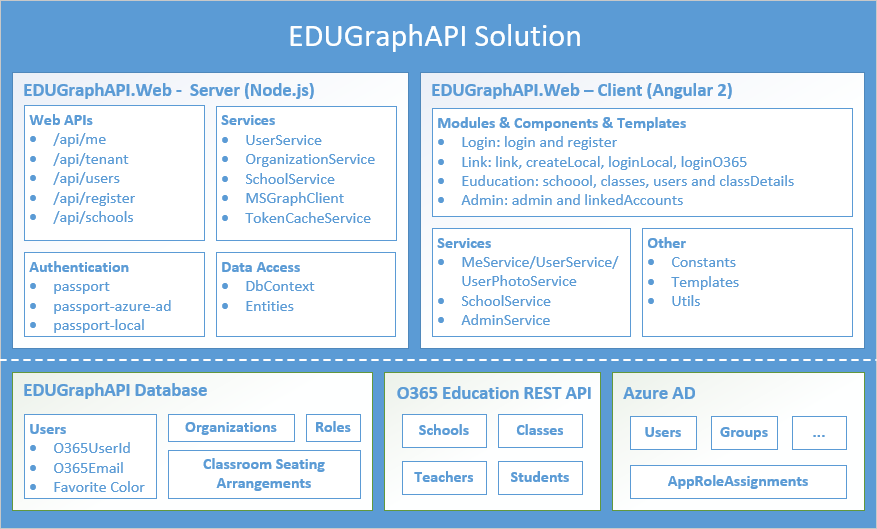
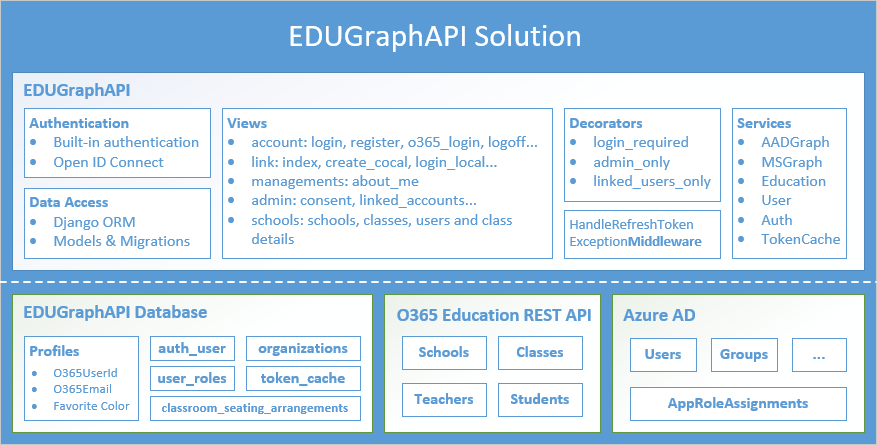
update readme

Changed region(s): [[0.0, 0.0292, 1.0, 0.9933]]

diff --git a/README.md b/README.md
@@ -252,11 +252,7 @@ Run the app:
 
 ![](Images/solution-component-diagram.png)
 
-
-
 ### **EDUGraphAPI**
-
-The server side app is based on Node.js and implemented with Typescript.
 
 **Authentication**
 
@@ -268,28 +264,28 @@ Local users authentication is based on the built-in API:
 * [login](https://docs.djangoproject.com/en/1.10/topics/auth/default/#django.contrib.auth.login)
 * [logout](https://docs.djangoproject.com/en/1.10/topics/auth/default/#django.contrib.auth.logout)
 
-O365 users authentication is implemented with Open ID Connect package: 
+O365 users authentication is implemented with Open ID Connect. 
 
 **Data Access**
 
 In this sample, [Django's built-in ORM](https://docs.djangoproject.com/en/1.11/topics/db/) is used to access data from the backend SQLite database.
 
-Below are are tables:
+Below are the tables:
 
 | Table                          | Description                              |
 | ------------------------------ | ---------------------------------------- |
 | auth_user                      | Django built-in user table which contains users' authentication information: username, email, password... |
-| users                          | Contains users' extra information: *favoriteColor*, *organization_id*,  *o365UserId*, and *o365Email*. The later two are used to connect the local user with an O365 user. |
 | user_roles                     | Contains users' roles. Three roles are used in this sample: admin, teacher, and student. |
+| profiles                       | Contains users' extra information: *favoriteColor*, *organization_id*,  *o365UserId*, and *o365Email*. The later two are used to connect the local user with an O365 user. |
 | organizations                  | A row in this table represents a tenant in AAD.<br>*isAdminConsented* column records if the tenant consented by an administrator. |
 | token_cache                    | Contains the users' access/refresh tokens. |
 | classroom_seating_arrangements | Contains the classroom seating arrangements data. |
 
-You will find the **DbContext** class and related model interfaces in the **/data/dbContext.ts** file.
+Models are defined in **/models/db.py**.
 
 **Views**
 
-The server app exposes several Web APIs:
+Below are the views:
 
 | Path                 | Description                              |
 | -------------------- | ---------------------------------------- |
@@ -297,31 +293,31 @@ The server app exposes several Web APIs:
 | /admin/views.py      | Contains administrative views like consent tenant, manage linked accounts. |
 | /link/views.py       | Contains views used for link user accounts. |
 | /management/views.py | Contains views of the about me page.     |
-| /schools/view        | Contains education views, like schools, classes, and class details. |
-
-These APIs are defined in the **/routes** folder.
+| /schools/view.py     | Contains education views, like schools, classes, and class details. |
 
 **Decorators**
 
-Several decorators were used for authorization:
+The below decorators were used in this app:
 
-| Decorator |      |
-| --------- | ---- |
-|           |      |
-|           |      |
-|           |      |
+| Decorator         | Description                              |
+| ----------------- | ---------------------------------------- |
+| login_required    | Only allow logged in users to access the protected resources. |
+| admin_only        | Only allow admins to access the protected resources. |
+| linked_users_only | Only allow linked users to access the protected resources. |
 
 **Services**
 
 The services used by the server side app:
 
-| Service           | Description                              |
-| ----------------- | ---------------------------------------- |
-| MSGraphClient     | Contains methods used to access MS Graph APIs |
-| SchoolService     | Contains two methods: get/update seating arrangements |
-| TenantService     | Contains methods that operate tenants in the database |
-| TokenCacheService | Contains method used to get and update cache from the database |
-| UserService       | Contains method used to manipulate users in the database |
+| Service          | Description                              |
+| ---------------- | ---------------------------------------- |
+| UserService      | Contains method used to manipulate users in the database. |
+| LinkService      | Contains method used to link user accounts. |
+| AuthService      | Contains methods used for authorization and authentication. |
+| AADGraphService  | Contains methods used to access AAD Graph APIs. |
+| MSGraphService   | Contains methods used to access MS Graph APIs. |
+| EducationService | Contains two methods to access Education REST APIs. |
+| TokenService     | Contains method used to get and update tokens from the database |
 
 The services are in the **/services** folder.
 
@@ -348,40 +344,38 @@ The **EducationServiceClient** is the core class of the library. It is used to e
 **Get schools**
 
 ~~~typescript
-getSchools(): Observable<any[]> {
-    return this.dataService.getArray<any>(this.urlBase + "/administrativeUnits?api-version=beta");
-}
+def get_schools(self):
+    url = self.api_base_uri + 'administrativeUnits?api-version=beta'
+    return self.rest_api_service.get_object_list(url, self.access_token, model=School)
 ~~~
 
 ~~~typescript
-getSchoolById(id: string): Observable<any> {
-    return this.dataService.getObject(this.urlBase + '/administrativeUnits/' + id + '?api-version=beta');
-}
+def get_school(self, object_id):
+    url = self.api_base_uri + 'administrativeUnits/%s?api-version=beta' % object_id
+    return self.rest_api_service.get_object(url, self.access_token, model=School)
 ~~~
 
 **Get classes**
 
 ~~~typescript
-getClasses(schoolId: string, nextLink: string): Observable<PagedCollection<any>> {
-    let url: string = this.urlBase + "/groups?api-version=beta&$top=12&$filter=extension_fe2174665583431c953114ff7268b7b3_Education_ObjectType%20eq%20'Section'%20and%20extension_fe2174665583431c953114ff7268b7b3_Education_SyncSource_SchoolId%20eq%20'" + schoolId + "'" +
-        (nextLink ? "&" + GraphHelper.getSkipToken(nextLink) : '');
-    return this.dataService.getPagedCollection<any>(url);
-}
+def get_sections(self, school_id, top=12, nextlink=''):
+    skiptoken = self._get_skip_token(nextlink)
+    url = self.api_base_uri + "groups?api-version=1.5&$filter=extension_fe2174665583431c953114ff7268b7b3_Education_ObjectType eq 'Section' and extension_fe2174665583431c953114ff7268b7b3_Education_SyncSource_SchoolId eq '%s'&$top=%s%s" % (school_id, top, skiptoken)
+    return self.rest_api_service.get_object_list(url, self.access_token, model=Section, next_key='odata.nextLink')
 ~~~
 
 ```typescript
-getClassById(classId: string): Observable<any> {
-    return this.dataService.getObject<any>(this.urlBase + "/groups/" + classId + "?api-version=beta&$expand=members");
-}
+def get_section(self, object_id):
+    url = self.api_base_uri + 'groups/%s?api-version=1.5' % object_id
+    return self.rest_api_service.get_object(url, self.access_token, model=Section)
 ```
 **Get users**
 
 ```typescript
-getUsers(schoolId: string, nextLink: string): Observable<PagedCollection<any>> {
-    var url = this.urlBase + "/administrativeUnits/" + schoolId + "/members?api-version=beta&$top=12" +
-        (nextLink ? "&" + GraphHelper.getSkipToken(nextLink) : '');
-    return this.dataService.getPagedCollection<any>(url);
-}
+def get_members(self, object_id, top=12, nextlink=''):
+    skiptoken = self._get_skip_token(nextlink)
+    url = self.api_base_uri + 'administrativeUnits/%s/members?api-version=beta&$top=%s%s' % (object_id, top, skiptoken)
+    return self.rest_api_service.get_object_list(url, self.access_token, model=EduUser, next_key='odata.nextLink')
 ```
 Below are some screenshots of the sample app that show the education data.
 
@@ -392,14 +386,6 @@ Below are some screenshots of the sample app that show the education data.
 ![](Images/edu-classes.png)
 
 ![](Images/edu-class.png)
-
-In **/app/services/dataService.ts**, three generic methods simplify the invoking of REST APIs.
-
-* **getObject<T>**: sends a http GET request to the target endpoint, and deserializes the JSON response string to T, and return the result object.  
-* **getPagedCollection<T>**:  sends a http GET request to the target endpoint, and deserializes the JSON response string to PagedCollection<T>, and return the result object. 
-* **getArray<T>**: sends a http GET request to the target endpoint, and deserializes the JSON response string to array, and return the array.
-
-For http GET request sent by the 3 methods above, an access token is included in the bearer authentication header.
 
 ### Authentication Flows
 
@@ -442,20 +428,12 @@ There are two distinct Graph APIs used in this sample:
 
 > Therefore, please use the new Microsoft Graph API as much as possible and minimize how much you use the Azure AD Graph API.
 
-Below is a piece of code shows how to get "me" from the Microsoft Graph API.
+Below is a piece of code shows how to get group documents from the Microsoft Graph API.
 
 ```typescript
-public getMe(): Promise<any> {
-    return new Promise((resolve, reject) => {
-        request
-            .get(Constants.MSGraphResource + "/v1.0/me/?$select=id,givenName,surname,userPrincipalName,assignedLicenses")
-            .set('Authorization', 'Bearer ' + this.accessToken)
-            .end((err, res) => {
-                if (err) { return reject(err) }
-                resolve(res.body);
-            })
-    })
-}
+def get_documents(self, object_id):
+    url = self.api_base_uri + 'groups/%s/drive/root/children' % object_id
+    return self.rest_api_service.get_object_list(url, self.access_token, model=Document)
 ```
 
 Note that in the AAD Application settings, permissions for each Graph API are configured separately:
